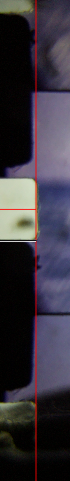
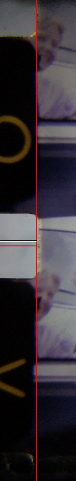
Working scan

diff --git a/Scan8mmFilm_main.py b/Scan8mmFilm_main.py
@@ -207,7 +207,7 @@ class Window(QMainWindow, Ui_MainWindow):
             if picamera2_present: 
                 self.enableButtons(busy=True)  
                 self.motorStart()
-                pidevi.spoolFwd(0.5)
+                pidevi.spoolFwd(0.02)
                 pidevi.stepCw(self.film.stepsPrFrame)
                 #pidevi.spoolStart()
                 self.showHoleCrop()
@@ -257,7 +257,7 @@ class Window(QMainWindow, Ui_MainWindow):
             if picamera2_present:
                 self.enableButtons(busy=True)  
                 self.motorStart()
-                pidevi.spoolBack(0.01)
+                pidevi.spoolBack(0.05)
                 pidevi.stepCcw(4)
                 #pidevi.spoolStart()
                 self.showHoleCrop()
@@ -274,7 +274,7 @@ class Window(QMainWindow, Ui_MainWindow):
             if picamera2_present:
                 self.enableButtons(busy=True)  
                 self.motorStart()
-                pidevi.spoolFwd(0.5)
+                pidevi.spoolFwd(0.05)
                 pidevi.stepCw(4)  
                 #pidevi.spoolStart()
                 self.showHoleCrop()
@@ -549,7 +549,7 @@ class Window(QMainWindow, Ui_MainWindow):
             #pidevi.spoolStart()
 
     def motorStop(self):
-        #pidevi.spoolStop()
+        pidevi.stepStop()
         self.timer.stop()
          
     def startCropAll(self):
@@ -631,8 +631,8 @@ class QThreadScan(QtCore.QThread):
         self.film = film
         self.cmd = 1 # run 
         self.midy = None#self.frame.midy #TODO switch to per frame setting
-        self.tolerance = 5
-        self.pixelsPerStep = 4
+        self.tolerance = 6
+        self.pixelsPerStep = 2
         self.parent = parent
         self.frameNo = Film.getFileCount(Film.scanFolder)
         
@@ -692,7 +692,7 @@ class QThreadScan(QtCore.QThread):
                 print(f"{currentcY}-----------------------------------------------")
                 if currentcY > self.midy + tolerance:
                     #self.motorStart()
-                    pidevi.spoolFwd(0.005)
+                    pidevi.spoolFwd(0.05)
                     self.sigProgress.emit(f"{self.frameNo} adjusting up", self.frameNo, self.frame)
                     print(f"{currentcY} lower than {self.midy} so Moving up {abs(currentcY-self.midy)} pixels {tolstep} steps")  
                     pidevi.stepCw(tolstep)
@@ -703,7 +703,7 @@ class QThreadScan(QtCore.QThread):
                     self.sigProgress.emit(f"{self.frameNo} adjusting down", self.frameNo, self.frame)  
                     print(f"{currentcY} higher than {self.midy} so Moving down {abs(currentcY-self.midy)} pixels {tolstep} steps")
                     #self.motorStart()
-                    #pidevi.spoolBack(0.005)
+                    pidevi.spoolBack(0.01)
                     #pidevi.adjDn()  
                     pidevi.stepCcw(tolstep)
                     sleep(.2) 

diff --git a/FilmScanModule.py b/FilmScanModule.py
@@ -183,7 +183,7 @@ class Frame:
     ScaleFactor = 1.0 # overwritten by initScaleFactor()
     outerThresh = 0.65
     innerThresh = 0.3
-    s8_template = [60,155,60]
+    s8_template = [60,160,60]
     r8_template = [60,155,60]
 
     def initScaleFactor():
@@ -319,7 +319,7 @@ class Frame:
         innerThreshold = Frame.innerThresh*maxPeakValue
         outerLow       = y1
         peaks = []
-        gap_thresh = 10*Frame.ScaleFactor #How close to template values at scaled
+        gap_thresh = 20*Frame.ScaleFactor #How close to template values at scaled
         for y in range(y1,y2):
             if smoothedHisto[y]<outerThreshold and smoothedHisto[y+1]>outerThreshold:
                 peaks.append(y)

diff --git a/piDeviceInterface.py b/piDeviceInterface.py
@@ -119,6 +119,10 @@ def spoolStop():
     GPIO.output(pin_forward, GPIO.LOW)
     GPIO.output(pin_backward, GPIO.LOW)
     spool_pwm.ChangeDutyCycle(0)
+    
+def stepStop():
+    print("Stepper off")
+    GPIO.output(STEPON, GPIO.LOW)
 
 def rewind():
     spool_pwm.ChangeDutyCycle(50)
